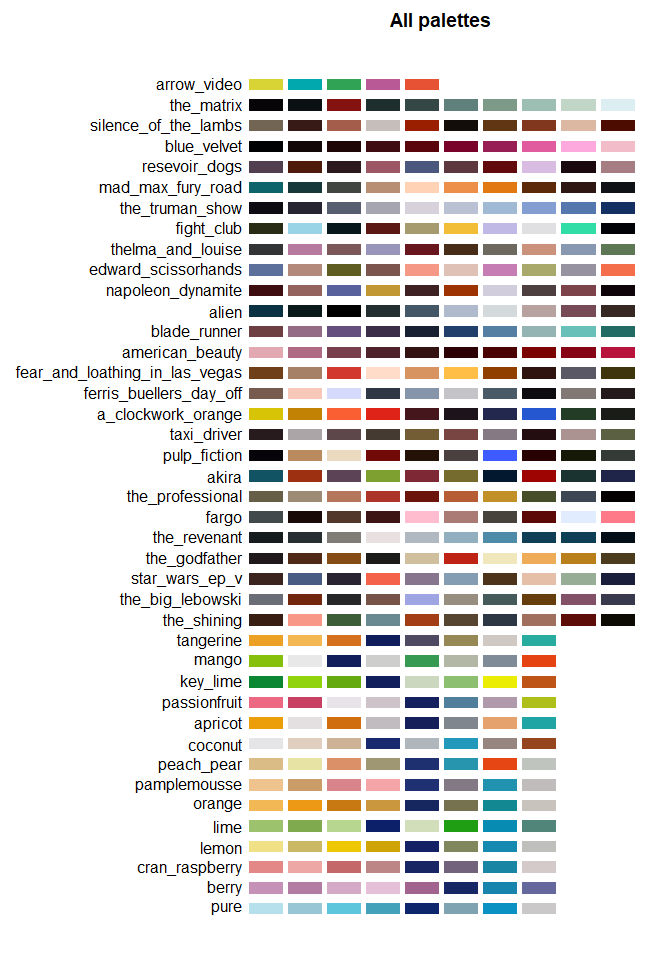
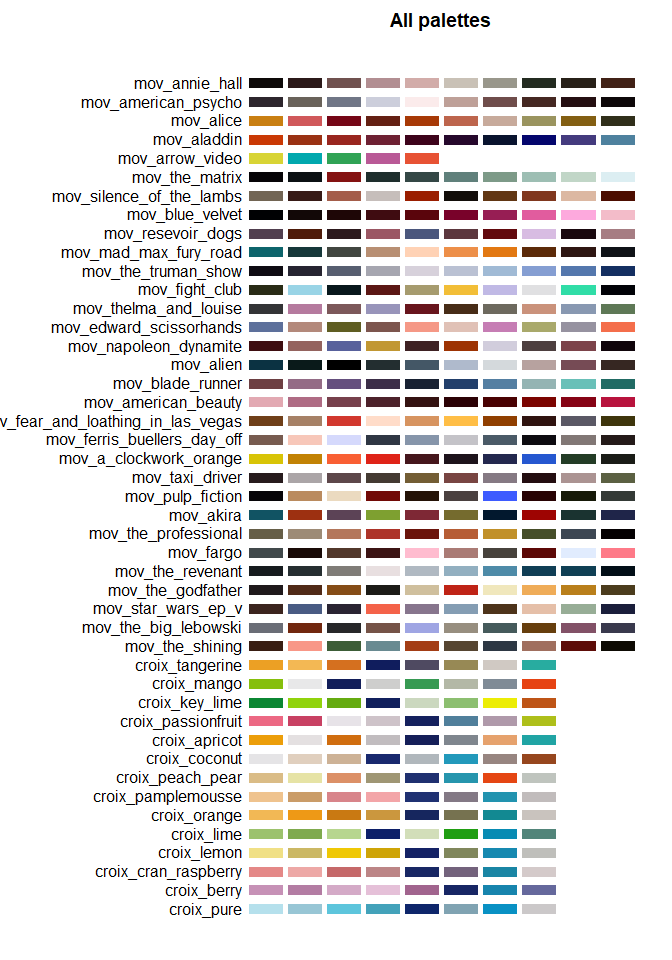
Update workflow; add badges

diff --git a/README.md b/README.md
@@ -1,14 +1,19 @@
 
-croix <img src="man/figures/croix_logo.svg" align="right" height="120"/>
-========================================================================
+# croix <img src="man/figures/croix_logo.svg" align="right" height="120"/>
 
-Overview
---------
+[![Build
+Status](https://travis-ci.org/btmonier/croix.svg?branch=master)](https://travis-ci.org/btmonier/croix)
+[![](https://img.shields.io/badge/lifecycle-experimental-orange.svg)](https://www.tidyverse.org/lifecycle/#experimental)
 
-This R package serves as a color palette generator for color schemes to be used in plotting data. The original set of colors schemes for this package was based on the colors found on LaCroix cans. Later, color schemes from other popular media were also used (e.g. other beverages, movies, etc. ). I hope you find the colors pleasing to the eye. Thanks!
+## Overview
 
-Installation
-------------
+This R package serves as a color palette generator for color schemes to
+be used in plotting data. The original set of colors schemes for this
+package was based on the colors found on LaCroix cans. Later, color
+schemes from other popular media were also used (e.g. other beverages,
+movies, etc. ). I hope you find the colors pleasing to the eye. Thanks\!
+
+## Installation
 
 The current way to install this package is only through GitHub:
 
@@ -17,40 +22,64 @@ if (!require("devtools")) install.packages("devtools")
 devtools::install_github("btmonier/croix")
 ```
 
-Usage
------
+## Usage
 
-To get a list of palettes available through this package, use the following parameter:
+To get a list of palettes available through this package, use the
+following parameter:
 
 ``` r
 names(croix::croix_palettes)
-#>  [1] "pure"                           "berry"                         
-#>  [3] "cran_raspberry"                 "lemon"                         
-#>  [5] "lime"                           "orange"                        
-#>  [7] "pamplemousse"                   "peach_pear"                    
-#>  [9] "coconut"                        "apricot"                       
-#> [11] "passionfruit"                   "key_lime"                      
-#> [13] "mango"                          "tangerine"                     
-#> [15] "the_shining"                    "the_big_lebowski"              
-#> [17] "star_wars_ep_v"                 "the_godfather"                 
-#> [19] "the_revenant"                   "fargo"                         
-#> [21] "the_professional"               "akira"                         
-#> [23] "pulp_fiction"                   "taxi_driver"                   
-#> [25] "a_clockwork_orange"             "ferris_buellers_day_off"       
-#> [27] "fear_and_loathing_in_las_vegas" "american_beauty"               
-#> [29] "blade_runner"                   "alien"                         
-#> [31] "napoleon_dynamite"              "edward_scissorhands"           
-#> [33] "thelma_and_louise"              "fight_club"                    
-#> [35] "the_truman_show"                "mad_max_fury_road"             
-#> [37] "resevoir_dogs"                  "blue_velvet"                   
-#> [39] "silence_of_the_lambs"           "the_matrix"                    
-#> [41] "arrow_video"
+#>  [1] "croix_pure"                        
+#>  [2] "croix_berry"                       
+#>  [3] "croix_cran_raspberry"              
+#>  [4] "croix_lemon"                       
+#>  [5] "croix_lime"                        
+#>  [6] "croix_orange"                      
+#>  [7] "croix_pamplemousse"                
+#>  [8] "croix_peach_pear"                  
+#>  [9] "croix_coconut"                     
+#> [10] "croix_apricot"                     
+#> [11] "croix_passionfruit"                
+#> [12] "croix_key_lime"                    
+#> [13] "croix_mango"                       
+#> [14] "croix_tangerine"                   
+#> [15] "mov_the_shining"                   
+#> [16] "mov_the_big_lebowski"              
+#> [17] "mov_star_wars_ep_v"                
+#> [18] "mov_the_godfather"                 
+#> [19] "mov_the_revenant"                  
+#> [20] "mov_fargo"                         
+#> [21] "mov_the_professional"              
+#> [22] "mov_akira"                         
+#> [23] "mov_pulp_fiction"                  
+#> [24] "mov_taxi_driver"                   
+#> [25] "mov_a_clockwork_orange"            
+#> [26] "mov_ferris_buellers_day_off"       
+#> [27] "mov_fear_and_loathing_in_las_vegas"
+#> [28] "mov_american_beauty"               
+#> [29] "mov_blade_runner"                  
+#> [30] "mov_alien"                         
+#> [31] "mov_napoleon_dynamite"             
+#> [32] "mov_edward_scissorhands"           
+#> [33] "mov_thelma_and_louise"             
+#> [34] "mov_fight_club"                    
+#> [35] "mov_the_truman_show"               
+#> [36] "mov_mad_max_fury_road"             
+#> [37] "mov_resevoir_dogs"                 
+#> [38] "mov_blue_velvet"                   
+#> [39] "mov_silence_of_the_lambs"          
+#> [40] "mov_the_matrix"                    
+#> [41] "mov_arrow_video"                   
+#> [42] "mov_aladdin"                       
+#> [43] "mov_alice"                         
+#> [44] "mov_american_psycho"               
+#> [45] "mov_annie_hall"
 ```
 
 You can get a vector of hex color codes, simply use the following:
 
 ``` r
-crPal <- croix::croix_palette(name = "mad_max_fury_road")
+crPal <- croix::croix_palette(name = "mov_mad_max_fury_road")
 crPal
 #>  [1] "#0D646B" "#16383A" "#414640" "#B88F73" "#FFD2B5" "#ED8F49" "#E27812"
 #>  [8] "#5C2A09" "#2E1612" "#0F1217"
@@ -59,24 +88,24 @@ crPal
 To visualize the color scheme, use:
 
 ``` r
-crPal <- croix::croix_palette(name = "mad_max_fury_road")
+crPal <- croix::croix_palette(name = "mov_mad_max_fury_road")
 plot(crPal)
 ```
 
-![](man/figures/README-croix_plot_01-1.png)
+![](man/figures/README-croix_plot_01-1.png)<!-- -->
 
 To get a continuous gradient of a scheme, use:
 
 ``` r
     crPal <- croix::croix_palette(
-        name = "pamplemousse", 
+        name = "croix_pamplemousse", 
         n = 50, 
         type = "continuous"
     )
     plot(crPal)
 ```
 
-![](man/figures/README-croix_plot_02-1.png)
+![](man/figures/README-croix_plot_02-1.png)<!-- -->
 
 To see all of the schemes at once, use:
 
@@ -84,8 +113,8 @@ To see all of the schemes at once, use:
 croix::croix_all()
 ```
 
-![](man/figures/README-croix_plot_03-1.png)
+![](man/figures/README-croix_plot_03-1.png)<!-- -->
 
-------------------------------------------------------------------------
+-----
 
-*Last updated:* 2019-01-26
+*Last updated:* 2019-02-08
